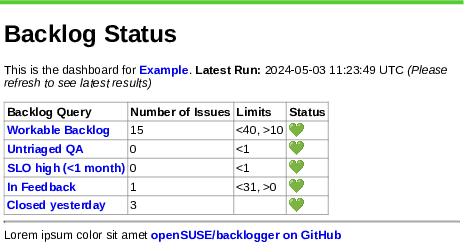
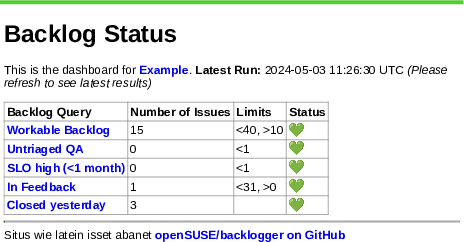
Deploy preview for PR 51 🛫

Changed region(s): [[0.0, 0.9545, 0.7543, 1.0], [0.7543, 0.2603, 0.8147, 0.3182]]

diff --git a/pr-preview/pr-51/index.html b/pr-preview/pr-51/index.html
@@ -5,7 +5,7 @@
 <!-- Facebook / Slack tags -->
 <meta property="og:title" content="Backlog Limits Checker" />
 <meta property="og:url" content="https://github.com/openSUSE/backlogger" />
-<meta property="og:image" content="https://openSUSE.github.io/backlogger/preview.png?v=1714735432" />
+<meta property="og:image" content="https://openSUSE.github.io/backlogger/preview.png?v=1714735592" />
 <meta http-equiv="refresh" content="600">
 <style>
 main {
@@ -36,7 +36,7 @@ a {
 <h1 id="backlog-status">Backlog Status</h1>
 
 <p>This is the dashboard for <a href="http://example.com">Example</a>.
-<strong>Latest Run:</strong> 2024-05-03 11:23:49 UTC
+<strong>Latest Run:</strong> 2024-05-03 11:26:30 UTC
 <em>(Please refresh to see latest results)</em></p>
 
 <table>
@@ -82,6 +82,6 @@ a {
   </tbody>
 </table>
 <hr>
-Lorem ipsum color sit amet
+Situs wie latein isset abanet
 <a href="https://github.com/openSUSE/backlogger">openSUSE/backlogger on GitHub</a>
 </main></body></html>
